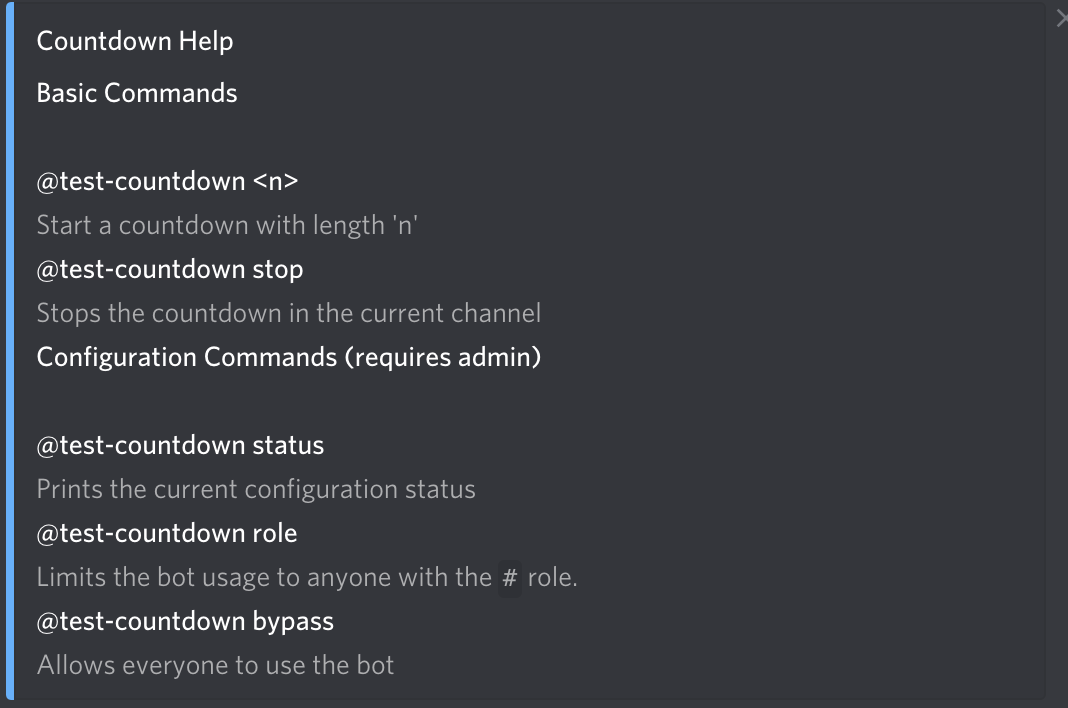
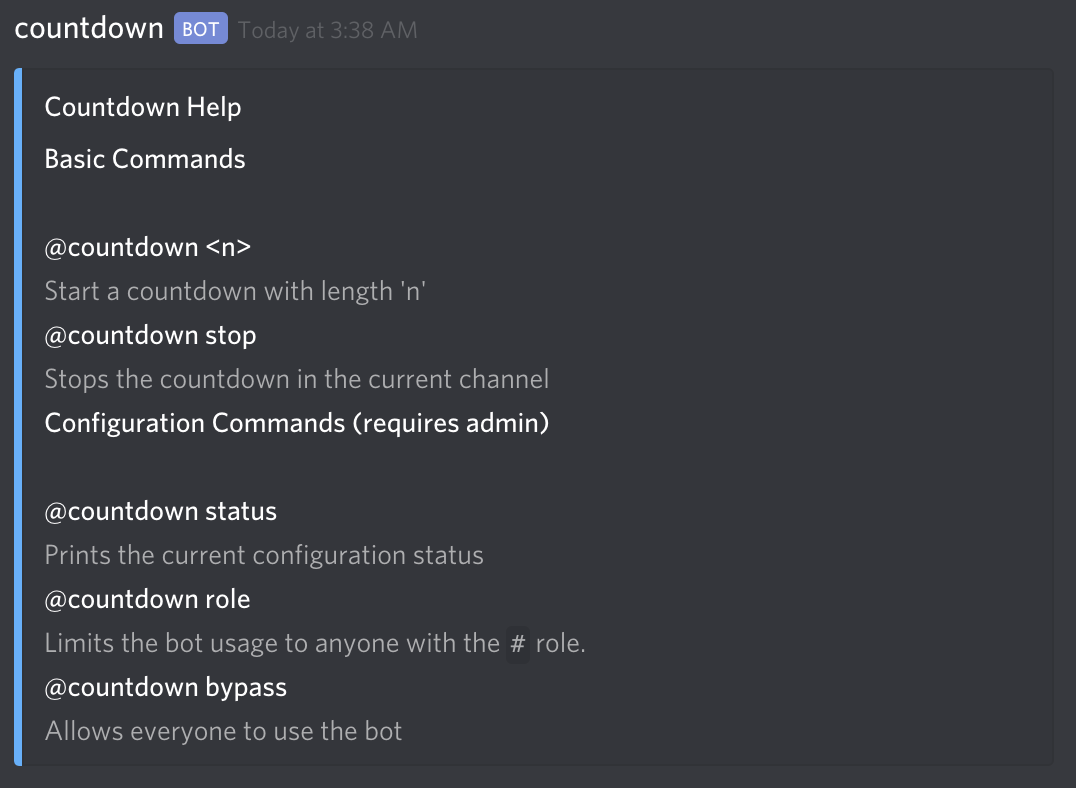
make sure bot uses guild specific username for help

diff --git a/bot.py b/bot.py
@@ -294,19 +294,19 @@ async def on_command_error(ctx, error):
             return await ctx.channel.send("You are not allowed to run this command.")
 
     else:
-        traceback.print_exc()
+        raise error
 
 
 @bot.command()
 async def help(ctx):
     embed=Embed(title="Countdown Help", color=0x4eb1ff)
     embed.add_field(name="Basic Commands", value='\u200b', inline=False)
-    embed.add_field(name=f"@{bot.user.name} <n>", value="Start a countdown with length 'n'", inline=False)
-    embed.add_field(name=f"@{bot.user.name} stop", value="Stops the countdown in the current channel", inline=False)
+    embed.add_field(name=f"@{ctx.guild.me.display_name} <n>", value="Start a countdown with length 'n'", inline=False)
+    embed.add_field(name=f"@{ctx.guild.me.display_name} stop", value="Stops the countdown in the current channel", inline=False)
     embed.add_field(name="Configuration Commands (requires admin)", value='\u200b', inline=False)
-    embed.add_field(name=f"@{bot.user.name} status", value="Prints the current configuration status", inline=False)
-    embed.add_field(name=f"@{bot.user.name} role", value="Limits the bot usage to anyone with the `#` role.", inline=False)
-    embed.add_field(name=f"@{bot.user.name} bypass", value="Allows everyone to use the bot", inline=False)
+    embed.add_field(name=f"@{ctx.guild.me.display_name} status", value="Prints the current configuration status", inline=False)
+    embed.add_field(name=f"@{ctx.guild.me.display_name} role", value="Limits the bot usage to anyone with the `#` role.", inline=False)
+    embed.add_field(name=f"@{ctx.guild.me.display_name} bypass", value="Allows everyone to use the bot", inline=False)
     await ctx.channel.send(embed=embed)
 
 
